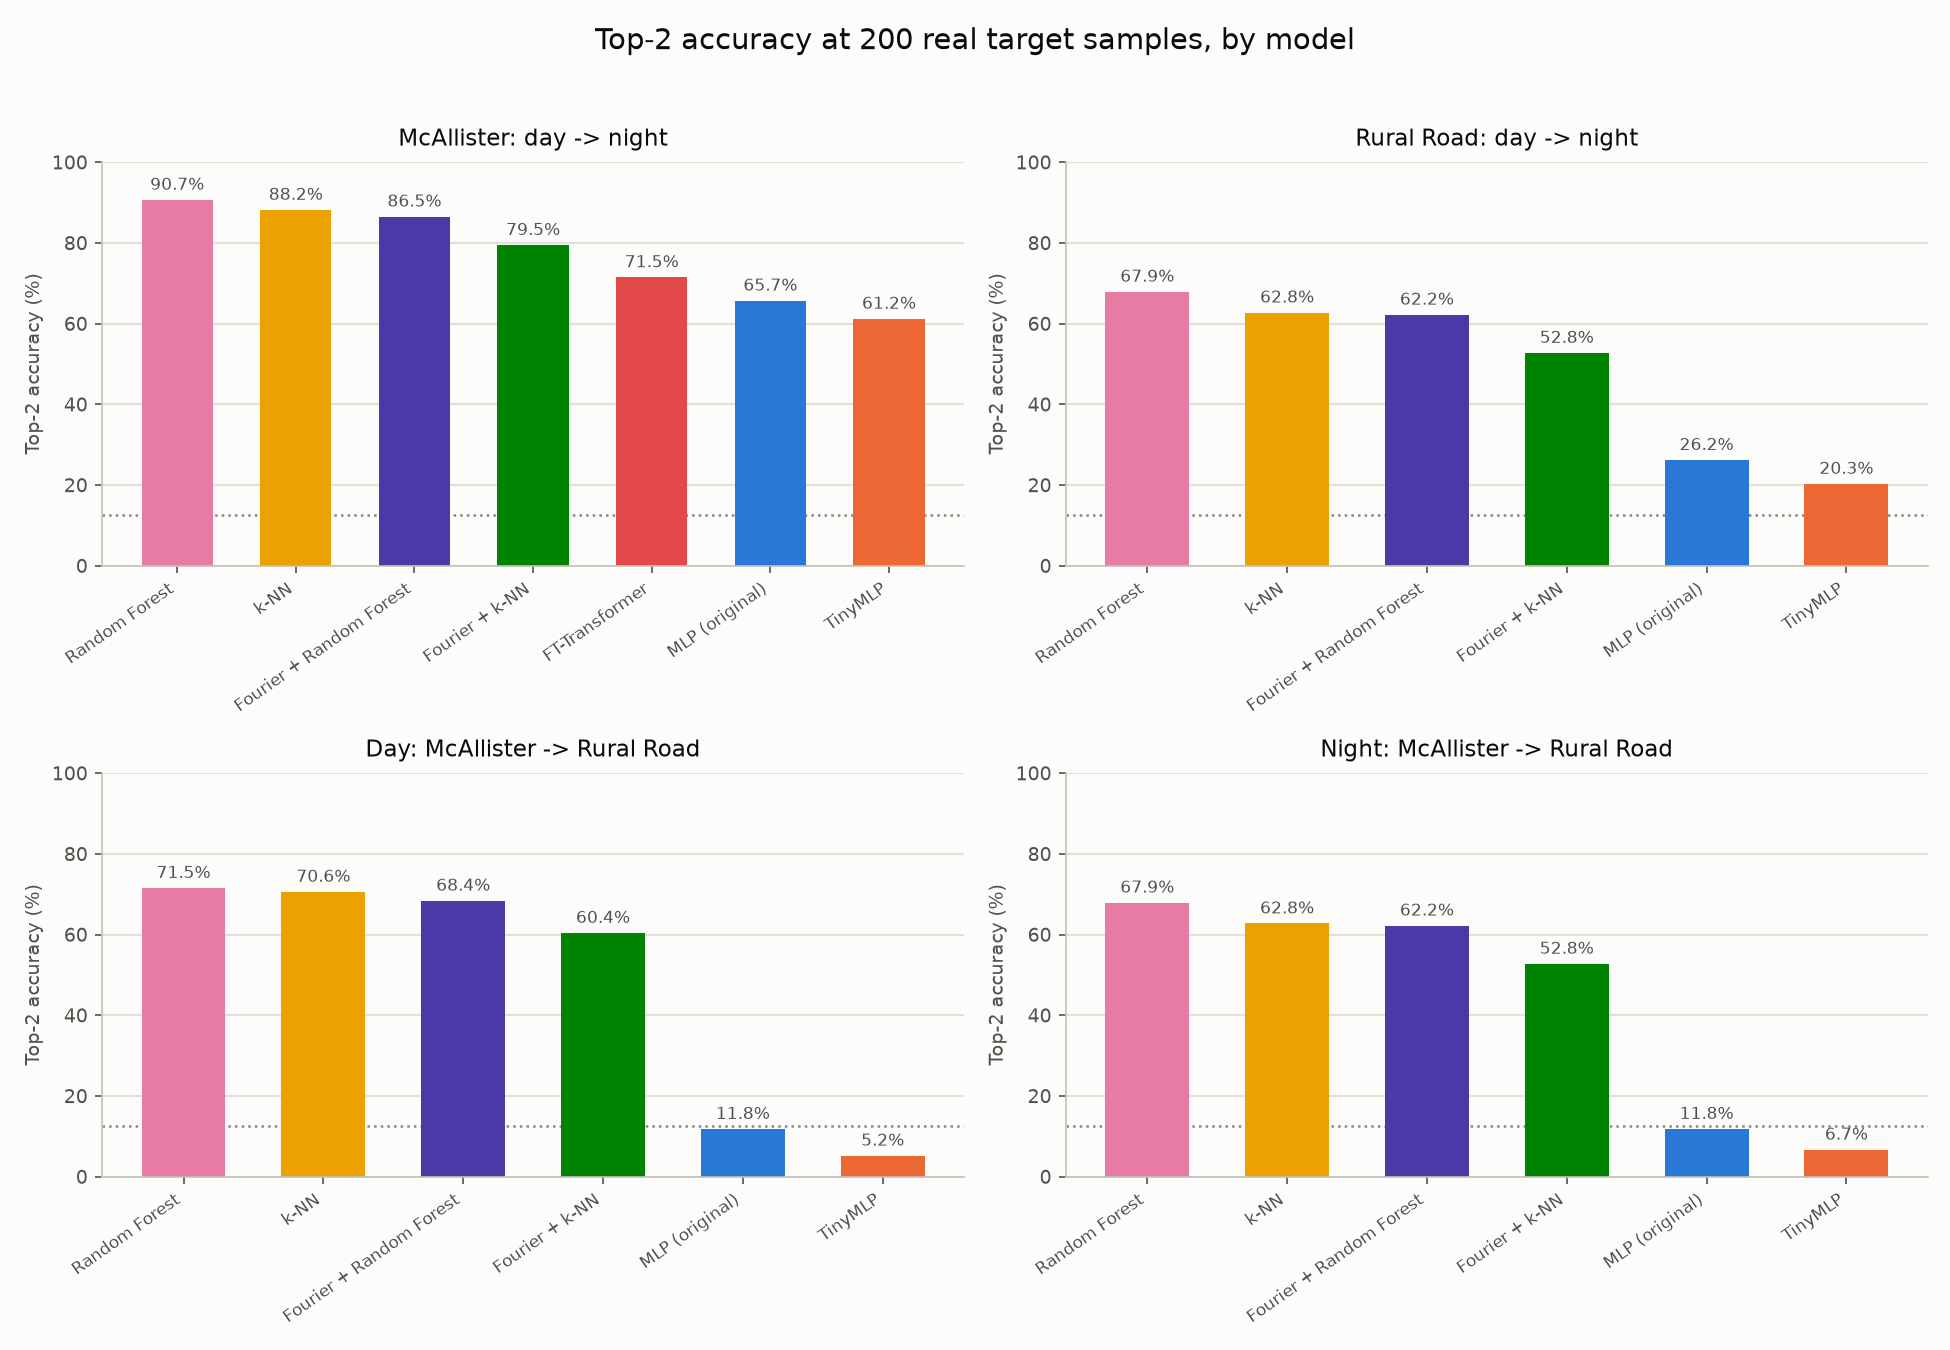
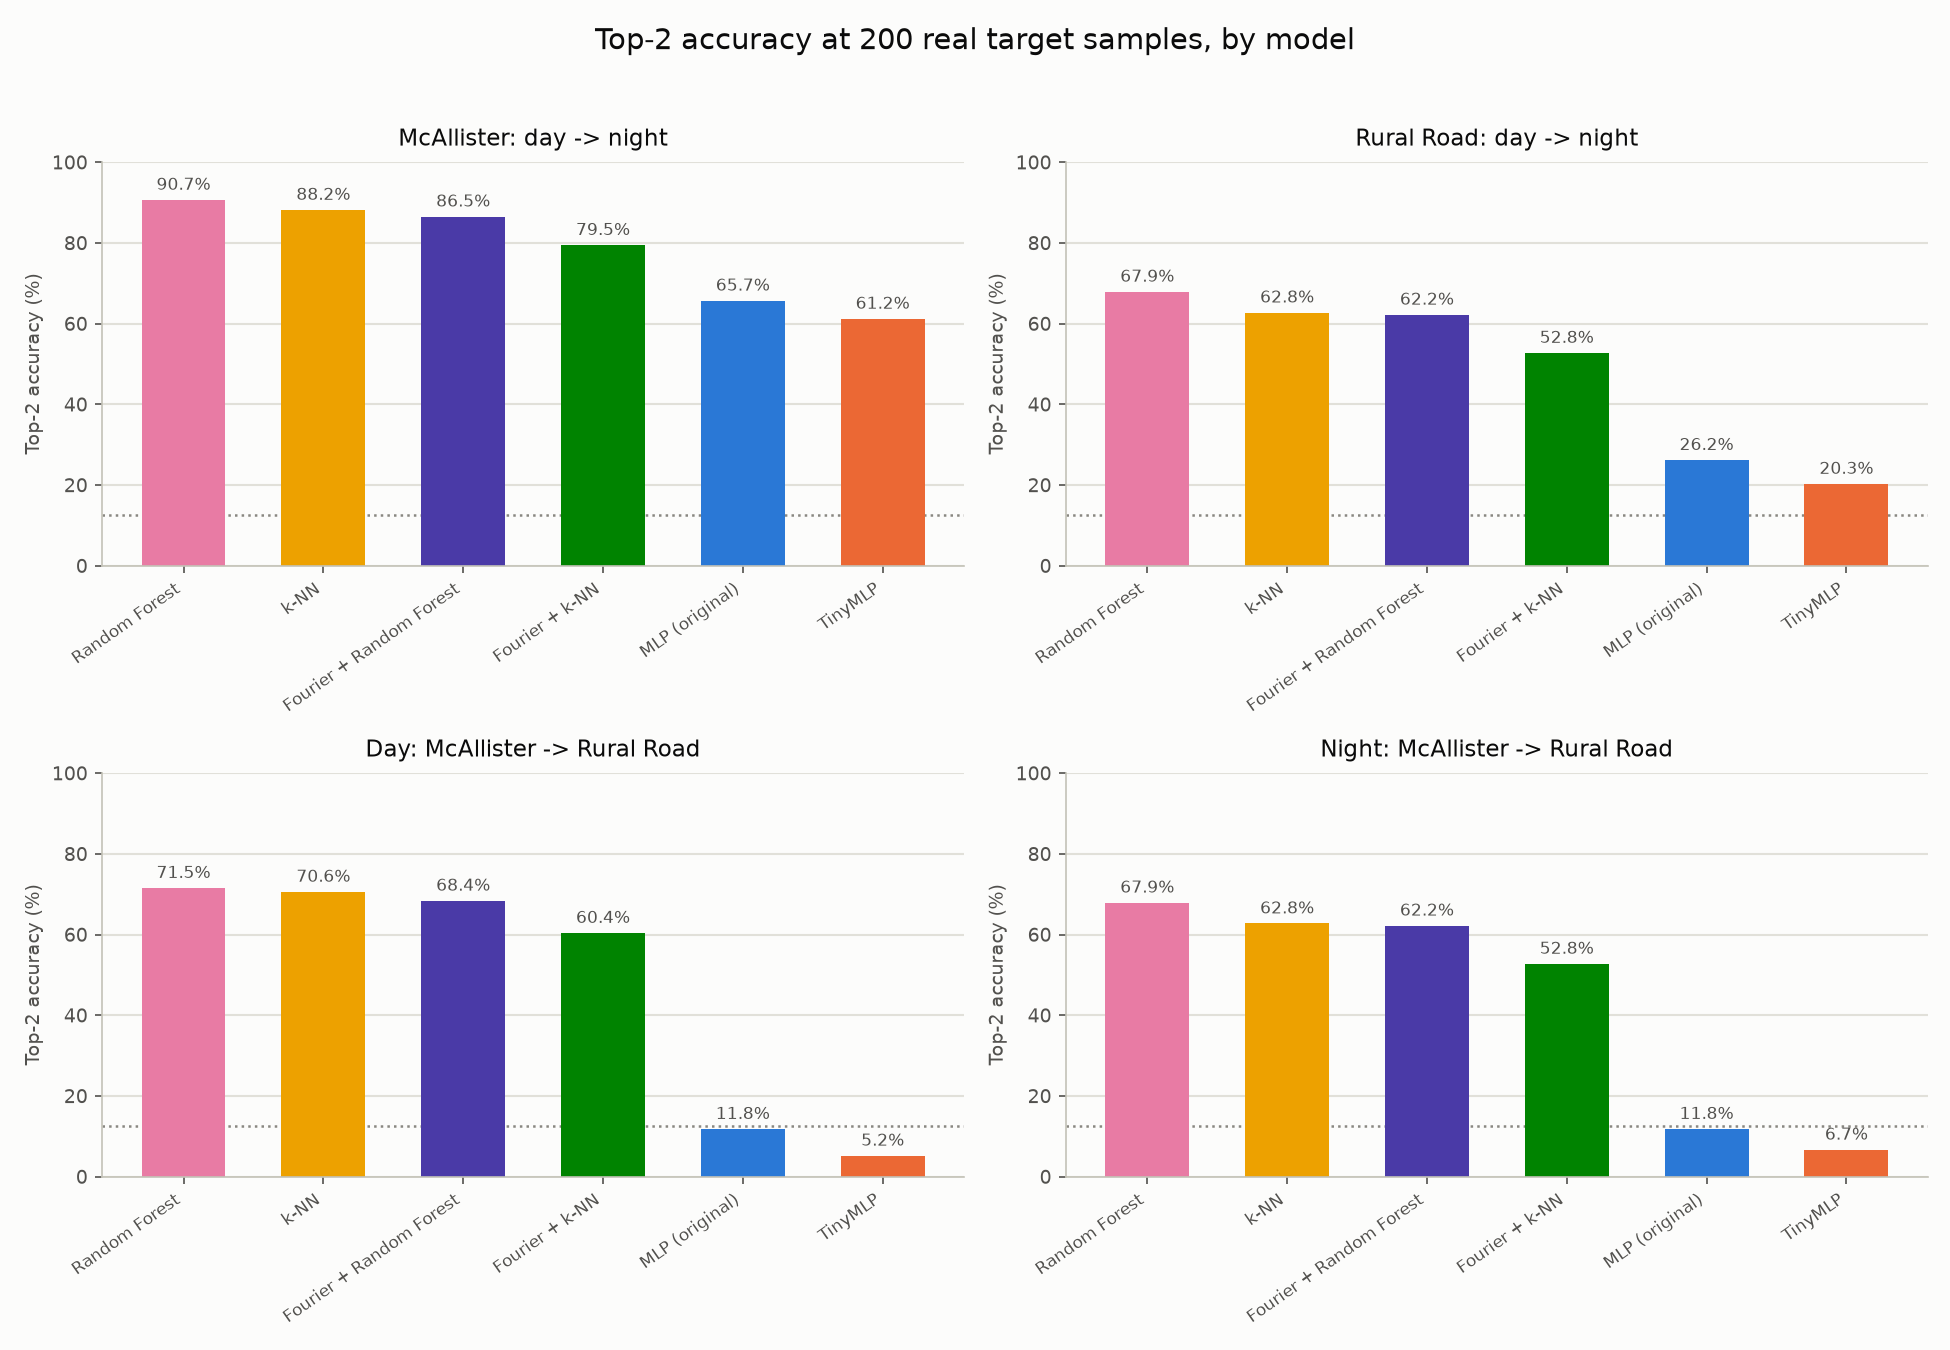
update: removed transformer + resmlp

diff --git a/model_comparison_study/model.py b/model_comparison_study/model.py
@@ -2,8 +2,6 @@
 author:Shuaifeng
 data:10/8/2022
 """
-import numpy as np
-import torch
 import torch.nn as nn
 
 class FullyConnected(nn.Module):
@@ -45,75 +43,7 @@ class TinyMLP(nn.Module):
         return self.classifier(y)
 
 
-class ResidualBlock(nn.Module):
-    def __init__(self, hidden_size, dropout=0.2):
-        super(ResidualBlock, self).__init__()
-        self.fc = nn.Linear(hidden_size, hidden_size)
-        self.norm = nn.LayerNorm(hidden_size)
-        self.relu = nn.ReLU(inplace=True)
-        self.dropout = nn.Dropout(dropout)
-
-    def forward(self, x):
-        y = self.fc(x)
-        y = self.norm(y)
-        y = self.relu(y)
-        y = self.dropout(y)
-        return x + y
-
-
-class ResMLP(nn.Module):
-    """Same width as FullyConnected, but with residual connections, LayerNorm,
-    and dropout actually enabled (FullyConnected defines a dropout layer it
-    never calls in forward())."""
-    def __init__(self, num_classes, hidden_size=256, num_blocks=3, dropout=0.2):
-        super(ResMLP, self).__init__()
-        self.input_proj = nn.Linear(4, hidden_size)
-        self.relu = nn.ReLU(inplace=True)
-        self.blocks = nn.ModuleList([ResidualBlock(hidden_size, dropout) for _ in range(num_blocks)])
-        self.classifier = nn.Linear(hidden_size, num_classes)
-        self.name = 'ResMLP'
-
-    def forward(self, x):
-        y = self.relu(self.input_proj(x))
-        for block in self.blocks:
-            y = block(y)
-        return self.classifier(y)
-
-
-class FTTransformer(nn.Module):
-    """Tabular transformer: each of the 4 input features becomes its own
-    token (plus a learned CLS token), self-attention mixes across them, and
-    the CLS token is classified. The expensive end of the comparison -- with
-    only 4 feature-tokens, attention is unlikely to buy much over ResMLP,
-    which is itself part of the point for a resource-efficiency study."""
-    def __init__(self, num_classes, d_model=32, num_heads=4, num_layers=2,
-                 dim_feedforward=64, dropout=0.1):
-        super(FTTransformer, self).__init__()
-        self.num_features = 4
-        self.feature_embed = nn.Linear(1, d_model)
-        self.feature_type_embed = nn.Parameter(torch.randn(1, self.num_features, d_model) * 0.02)
-        self.cls_token = nn.Parameter(torch.randn(1, 1, d_model) * 0.02)
-        encoder_layer = nn.TransformerEncoderLayer(
-            d_model=d_model, nhead=num_heads, dim_feedforward=dim_feedforward,
-            dropout=dropout, batch_first=True,
-        )
-        self.encoder = nn.TransformerEncoder(encoder_layer, num_layers=num_layers)
-        self.classifier = nn.Linear(d_model, num_classes)
-        self.name = 'FTTransformer'
-
-    def forward(self, x):
-        b = x.shape[0]
-        tokens = self.feature_embed(x.unsqueeze(-1))  # (batch, 4, d_model)
-        tokens = tokens + self.feature_type_embed
-        cls = self.cls_token.expand(b, -1, -1)
-        tokens = torch.cat([cls, tokens], dim=1)  # (batch, 5, d_model)
-        encoded = self.encoder(tokens)
-        return self.classifier(encoded[:, 0])
-
-
 MODEL_REGISTRY = {
     'mlp': FullyConnected,
     'tinymlp': TinyMLP,
-    'resmlp': ResMLP,
-    'fttransformer': FTTransformer,
 }

diff --git a/model_comparison_study/plot_model_comparison.py b/model_comparison_study/plot_model_comparison.py
@@ -48,12 +48,10 @@ COMPARISONS = [
 MODEL_STYLE = {
     "mlp":            {"label": "MLP (original)",        "color": "#2a78d6", "marker": "o", "linestyle": "--", "linewidth": 2.4, "zorder": 5},
     "tinymlp":        {"label": "TinyMLP",                "color": "#eb6834", "marker": "s", "linestyle": "-",  "linewidth": 2.0, "zorder": 3},
-    "resmlp":         {"label": "ResMLP",                 "color": "#1baf7a", "marker": "*", "linestyle": "-",  "linewidth": 2.0, "zorder": 3},
     "knn":            {"label": "k-NN",                   "color": "#eda100", "marker": "^", "linestyle": "-",  "linewidth": 2.0, "zorder": 3},
     "rf":             {"label": "Random Forest",          "color": "#e87ba4", "marker": "D", "linestyle": "-",  "linewidth": 2.0, "zorder": 3},
     "fourier_knn":    {"label": "Fourier + k-NN",         "color": "#008300", "marker": "v", "linestyle": "-",  "linewidth": 2.0, "zorder": 3},
     "fourier_rf":     {"label": "Fourier + Random Forest","color": "#4a3aa7", "marker": "P", "linestyle": "-",  "linewidth": 2.0, "zorder": 3},
-    "fttransformer":  {"label": "FT-Transformer",         "color": "#e34948", "marker": "X", "linestyle": "-",  "linewidth": 2.0, "zorder": 3},
 }
 MODEL_ORDER = list(MODEL_STYLE.keys())
 

diff --git a/README.md b/README.md
@@ -177,14 +177,14 @@ python original_project/train_model_epoch_ablation.py
 
 **Folder:** `model_comparison_study/` (new, written as a follow-up to the thesis's Stage 1 result)
 
-The original paper, Stage 0, and Stage 1 above all use one fixed architecture — a 3-hidden-layer MLP (`FullyConnected` in `model.py`). This follow-up study asks a different question: across a range of architectures from cheap to expensive, which gives the best accuracy *per unit of resource cost* on the exact same Stage 1 cross-scenario protocol (same four scenarios, same splits, same sweep of real target samples)? See `model_comparison_study/model.py` and `model_comparison_study/train_baselines_cross_scenario.py` for full docstrings and rationale per model.
+The original paper, Stage 0, and Stage 1 above all use one fixed architecture — a 3-hidden-layer MLP (`FullyConnected` in `model.py`). This follow-up study asks a different question: which of a handful of alternative, cheap-to-train models gives the best accuracy *per unit of resource cost* on the exact same Stage 1 cross-scenario protocol (same four scenarios, same splits, same sweep of real target samples)? See `model_comparison_study/model.py` and `model_comparison_study/train_baselines_cross_scenario.py` for full docstrings and rationale per model.
+
+(Two more expensive variants — a residual MLP with LayerNorm/dropout, and a tabular transformer with self-attention over the 4 features — were tried and dropped. Neither changed the picture enough to justify the extra training cost, and dropping them keeps every model in this comparison in the same cheap, fast-to-run tier.)
 
 | Model | Type | Params | Run with |
 |---|---|---|---|
 | `mlp` | Original `FullyConnected` (reference point) | 136,976 | `python model_comparison_study/train_model_cross_scenario.py --model mlp` |
 | `tinymlp` | 2-layer, 32-unit MLP | 1,744 | `--model tinymlp` |
-| `resmlp` | Residual MLP + LayerNorm + dropout | 204,304 | `--model resmlp` |
-| `fttransformer` | Tabular transformer (self-attention over the 4 features) | 17,840 | `--model fttransformer` |
 | `knn` | k-Nearest Neighbors | — | `python model_comparison_study/train_baselines_cross_scenario.py --model knn` |
 | `rf` | Random Forest | — | `--model rf` |
 | `fourier_knn` | k-NN on NeRF/SIREN-style sinusoidal position features | — | `--model fourier_knn` |
